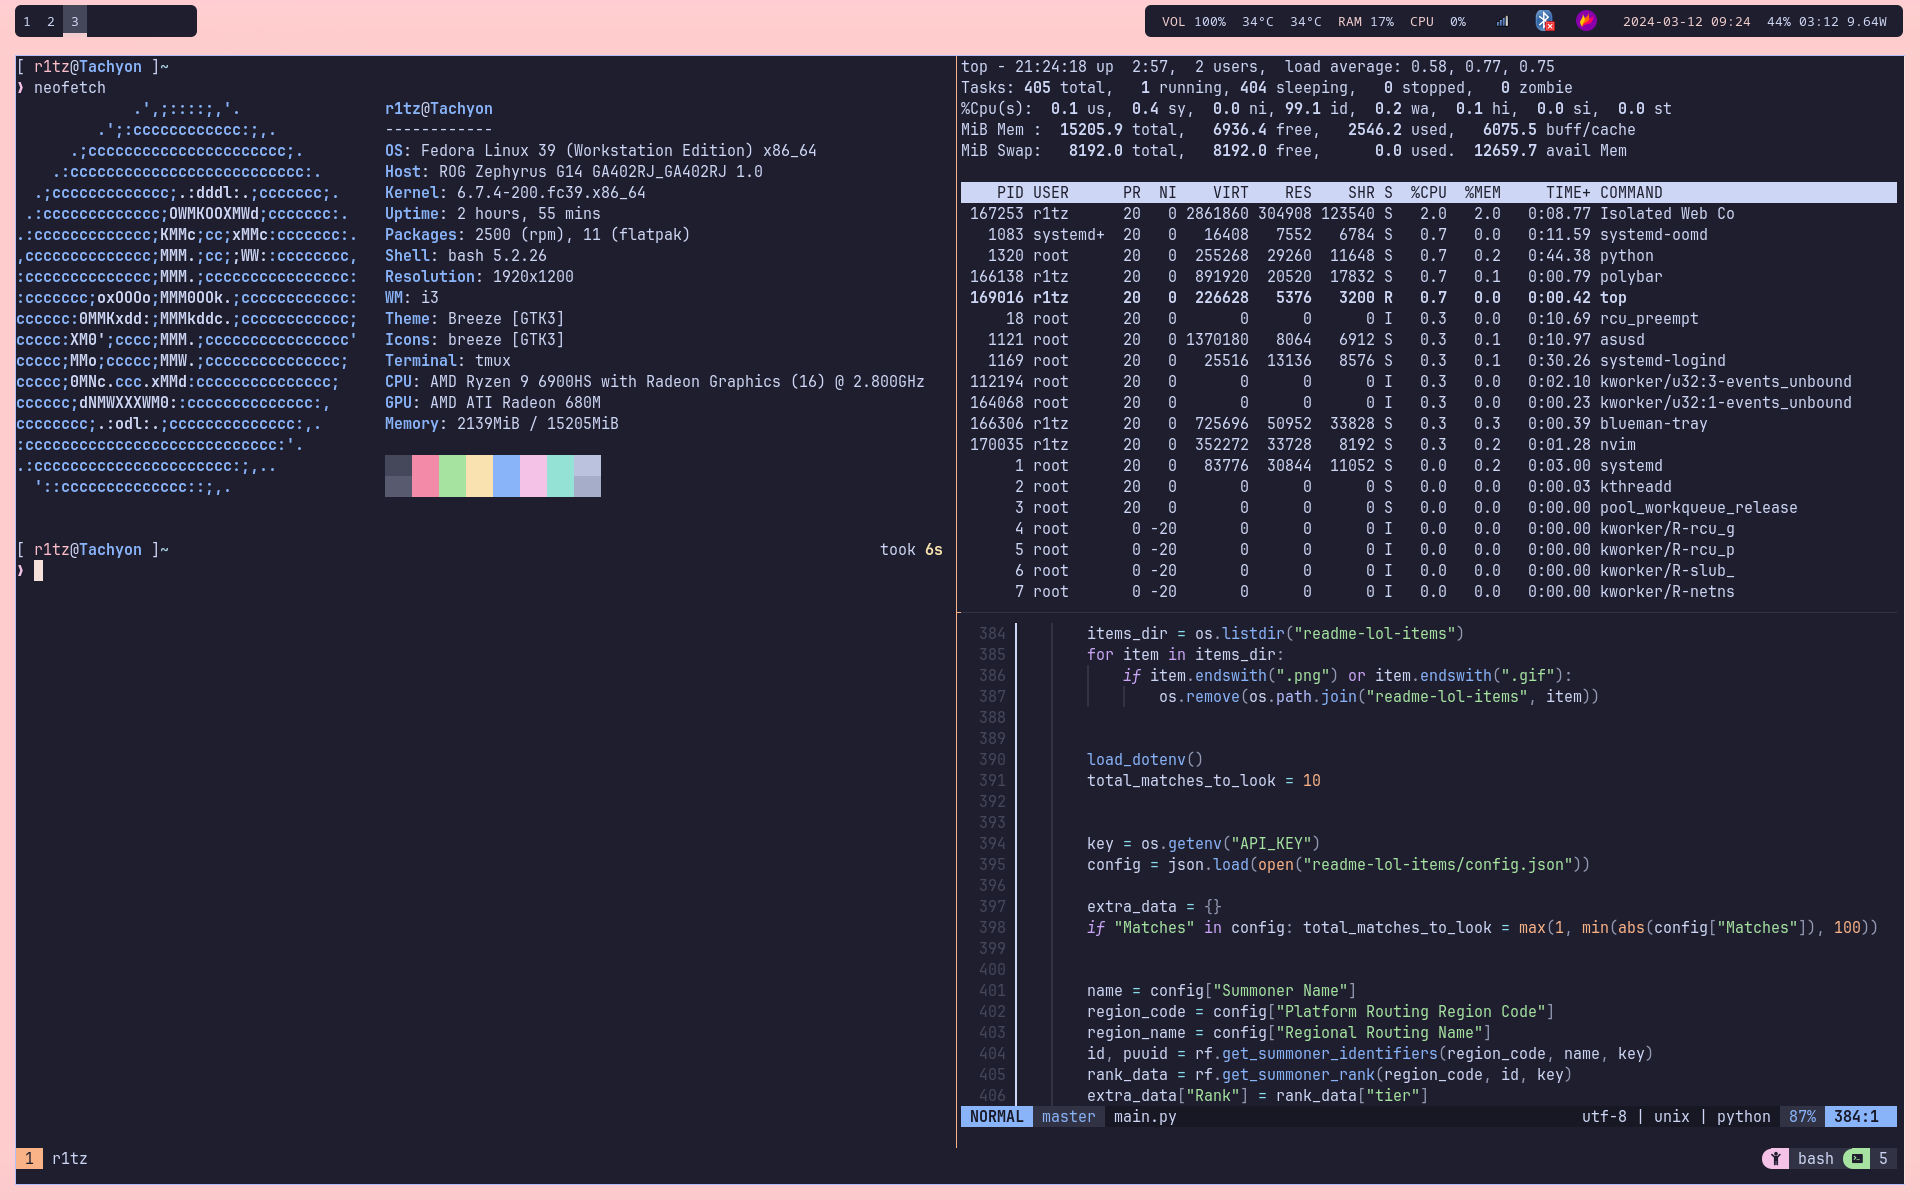
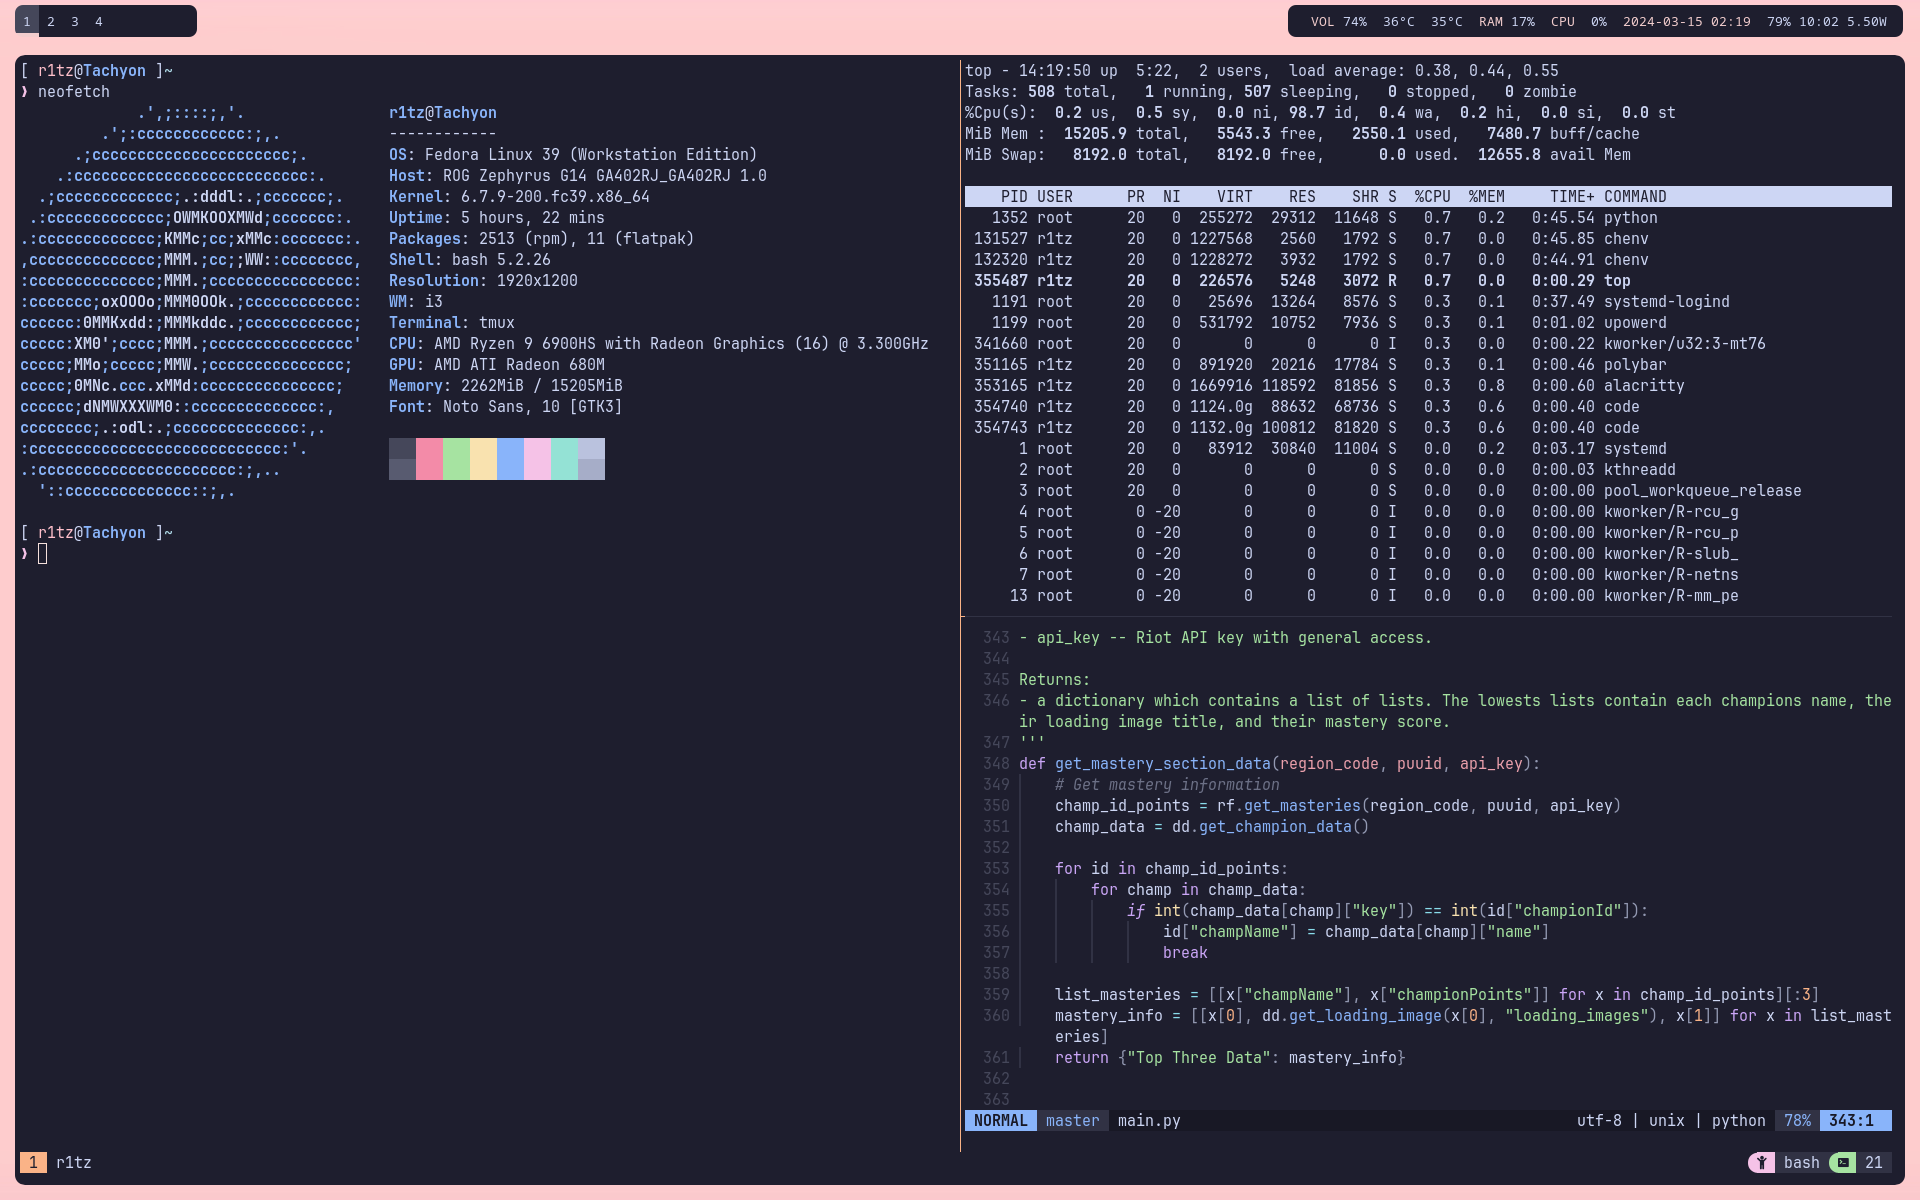
Minor Changes
- Rounded corners -> margin on alacritty and no borders makes it look ok
- Removed polybar tray -> need to look for an alternative that I can launch myself.

diff --git a/README.md b/README.md
@@ -18,11 +18,10 @@ The install script is supposed to be idempotent.
 
 
 ### Current Setup
-- Yes, I know my polybar(s) are rounded but my windows are not. I've tried rounded on both with picom and didn't like it.
-- Everything is using Catppuccin Mocha, even though it might not look like it. I'll probably make a fork of it for everything because I'd like to have a darker background for surfaces.
+- Everything is using Catppuccin Mocha.
 - I don't know who made the wallpaper. If you know, let me know.
 
-![background](background.png)
+![desktop](desktop.png)
 ![term](dotfiles-main.png)
 
 ### Troubleshooting
